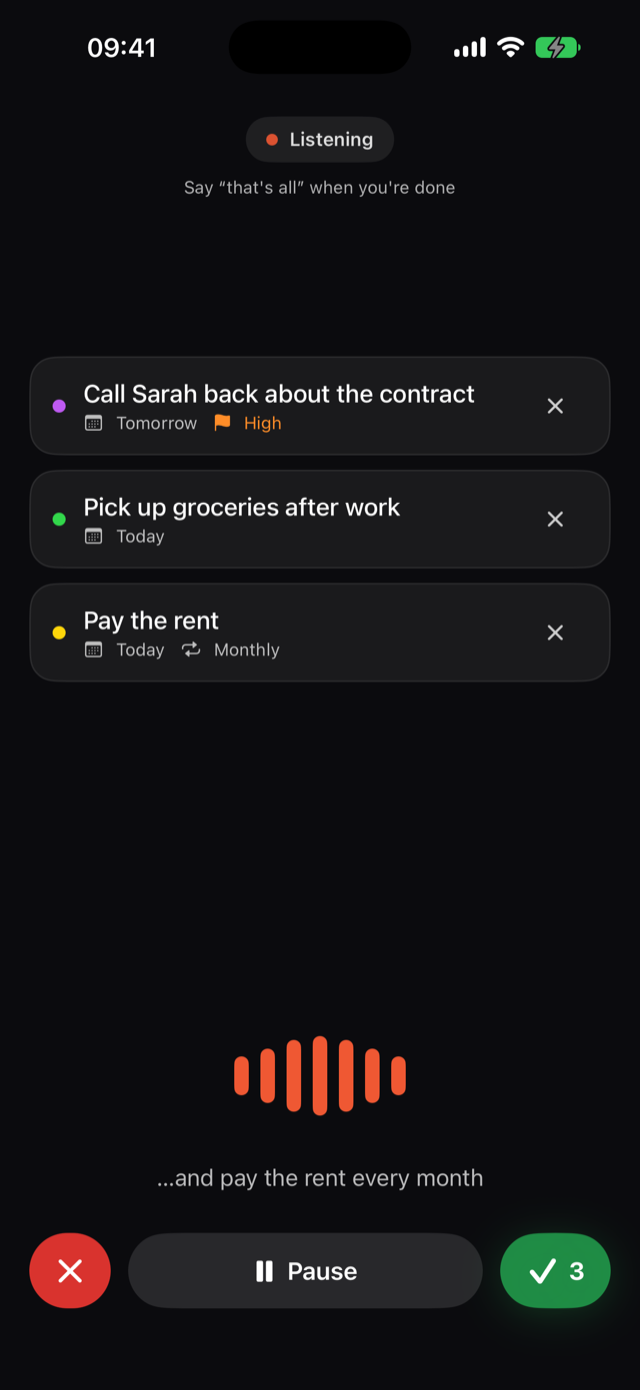
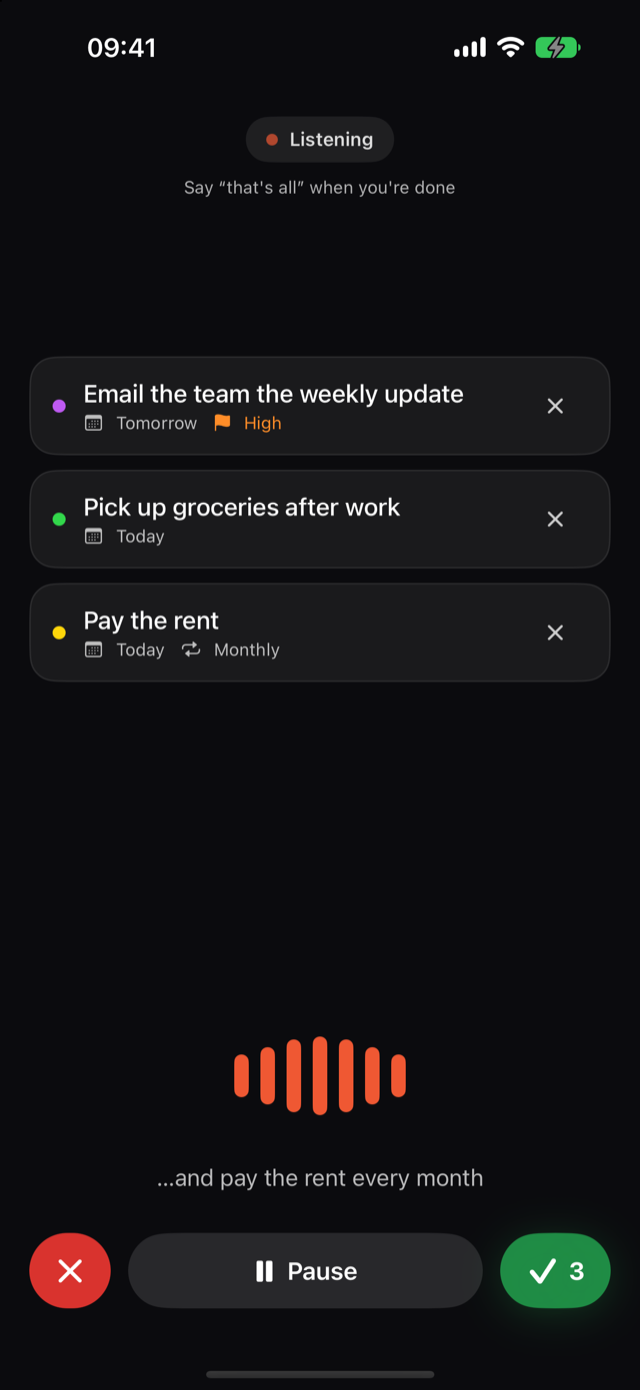
Name-free demo content

Changed region(s): [[0.3438, 0.959, 0.6562, 1.0], [0.125, 0.2784, 0.75, 0.3094], [0.4062, 0.0928, 0.4375, 0.1237]]

diff --git a/index.html b/index.html
@@ -148,7 +148,7 @@
     <div>
       <span class="kicker"><span class="dot"></span>VOICE-FIRST TASKS</span>
       <h1>Speak.<br><em>Tasks appear,</em> done.</h1>
-      <p class="sub">Tap the globe and just talk — <strong>"Call Sarah tomorrow at 9, pay rent every month, and pick up groceries."</strong> TalkyDo turns your words into separate tasks with dates, repeats, and priorities, while you watch.</p>
+      <p class="sub">Tap the globe and just talk — <strong>"Email the team tomorrow at 9, pay rent every month, and pick up groceries."</strong> TalkyDo turns your words into separate tasks with dates, repeats, and priorities, while you watch.</p>
       <div class="cta-row">
         <a class="cta ghost" href="#how">Coming soon to the App&nbsp;Store</a>
       </div>
@@ -171,7 +171,7 @@
           <div class="num">1</div>
           <h3>Just talk</h3>
           <p>Tap the globe and speak naturally — hesitations, mixed languages, long rambles, all fine.</p>
-          <div class="quote">"Call Sarah tomorrow at 9, pay rent every month, and pick up groceries…"</div>
+          <div class="quote">"Email the team tomorrow at 9, pay rent every month, and pick up groceries…"</div>
         </div>
         <div class="step">
           <div class="num">2</div>
